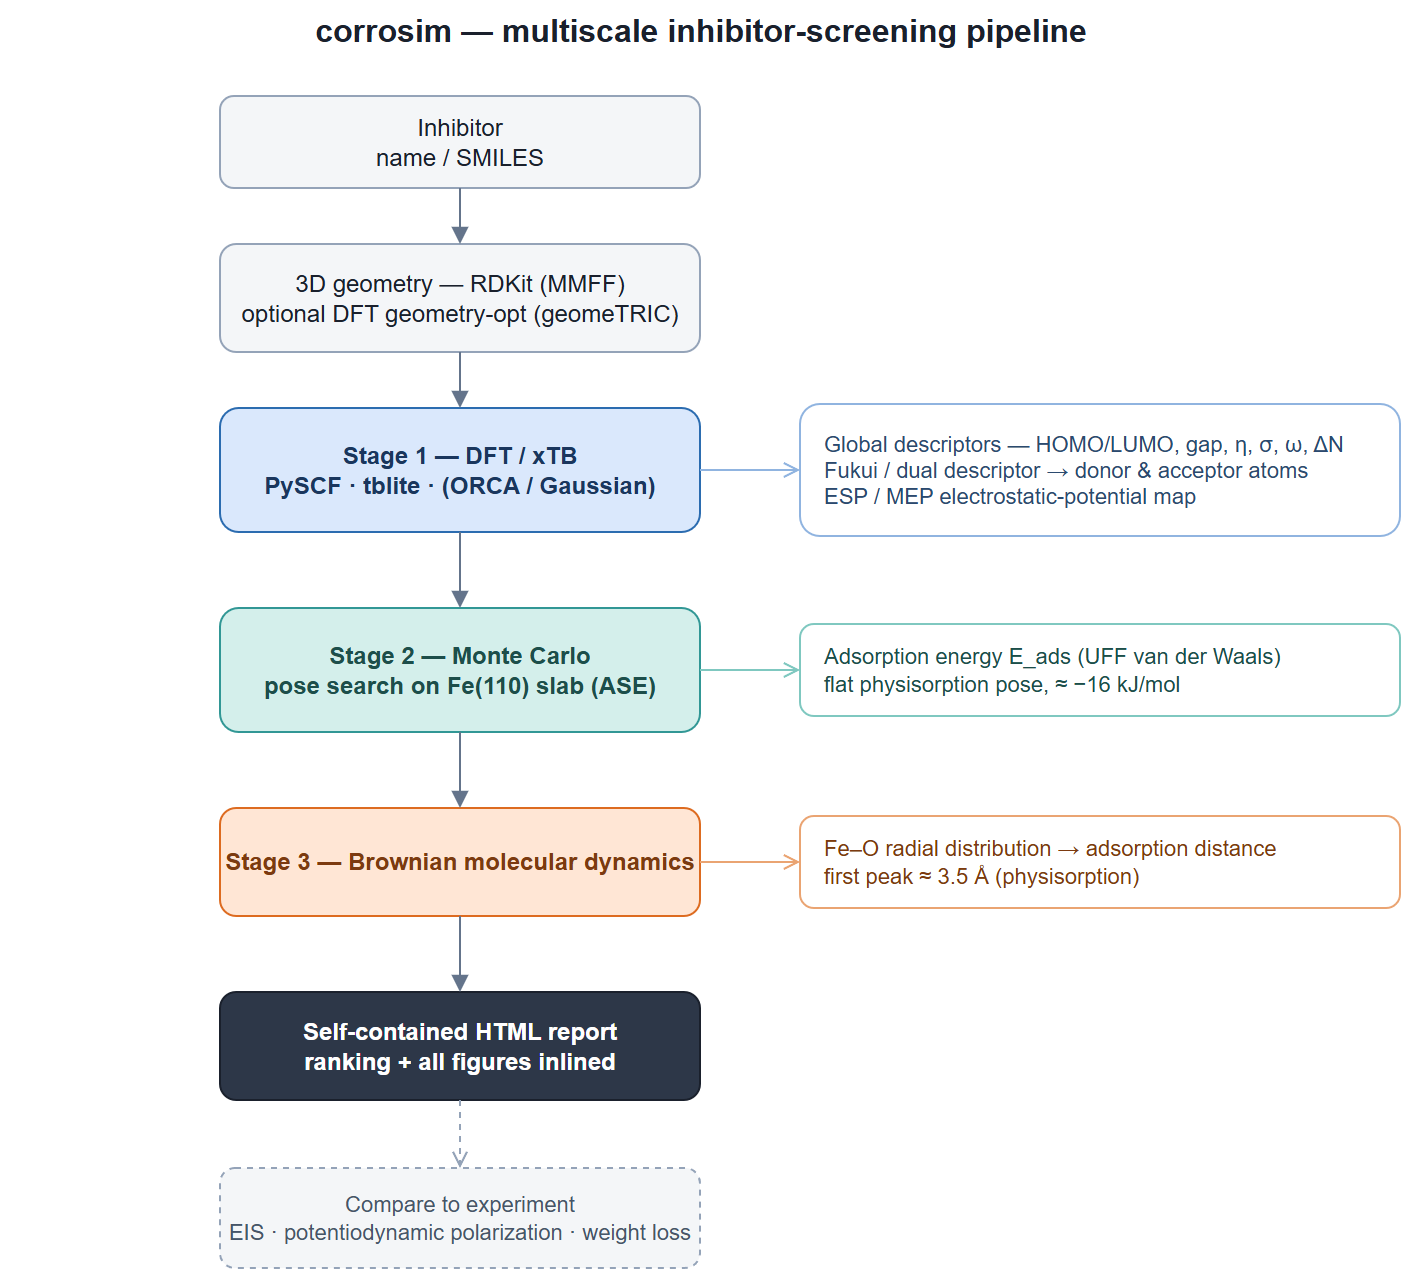
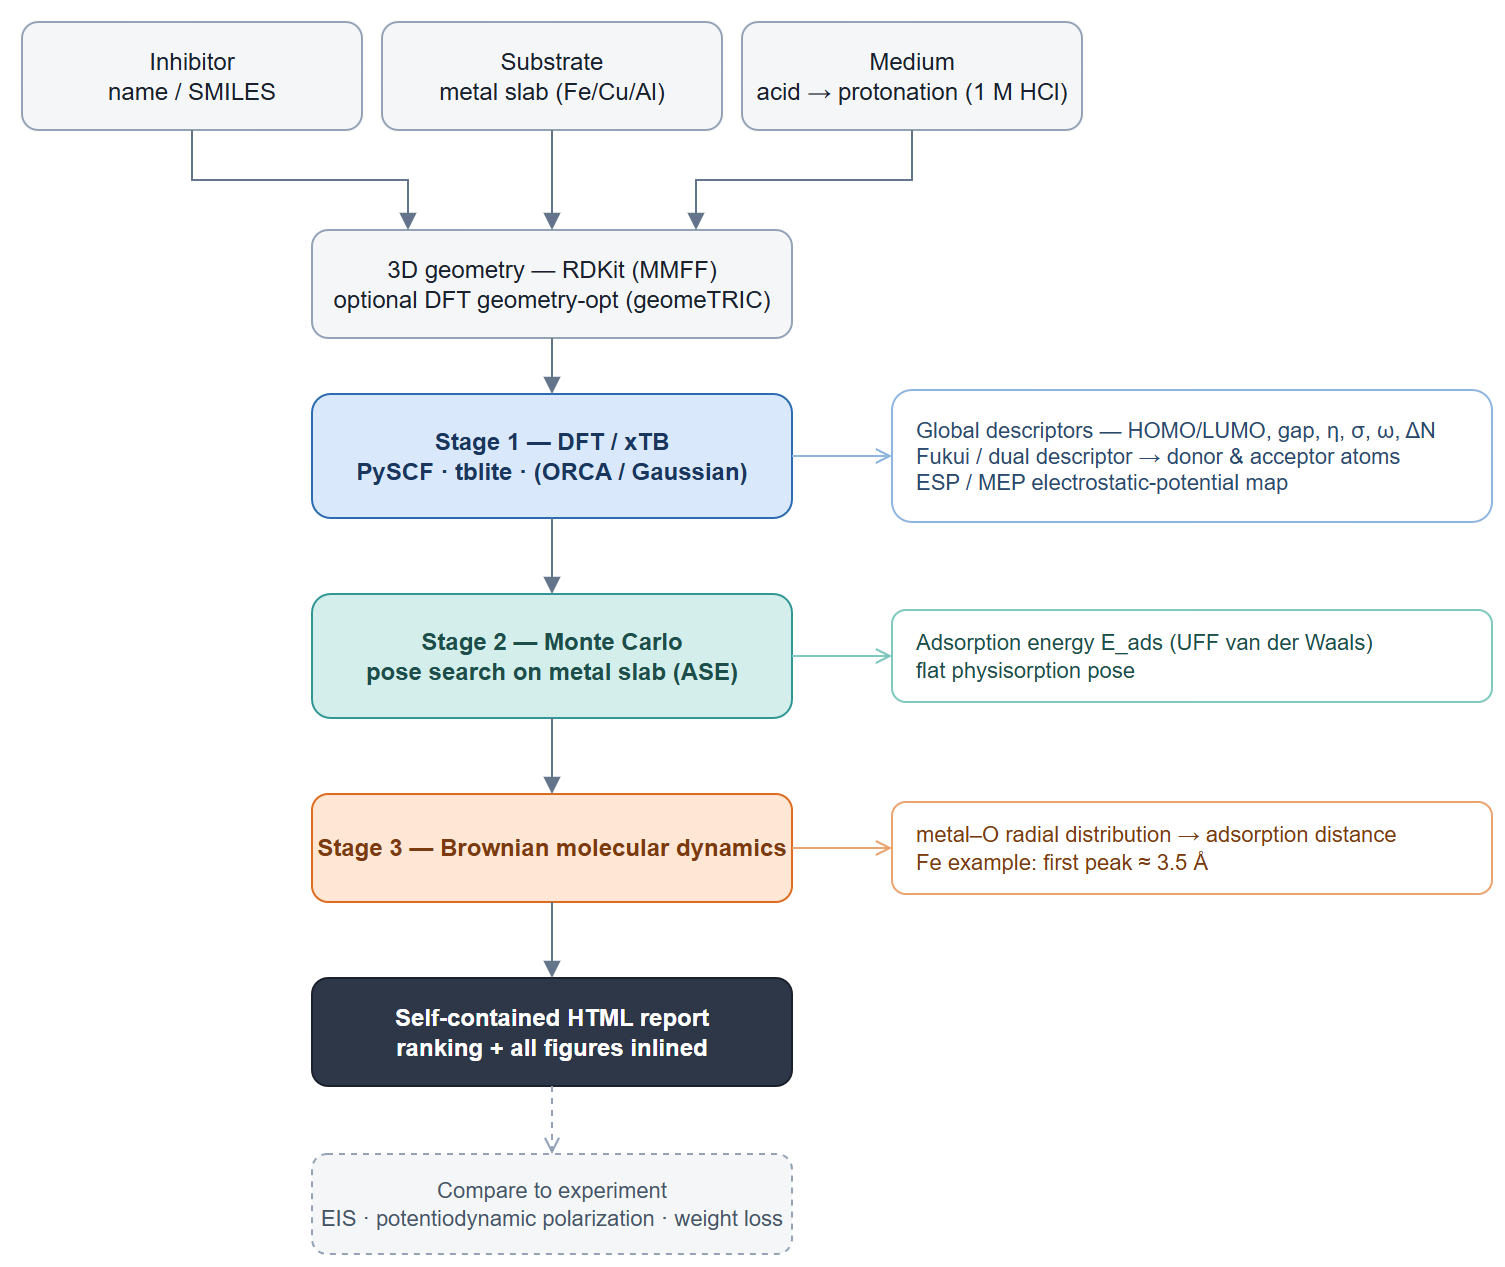
docs(pipeline): substrate-agnostic diagram + beginner-friendly guide
Remove the title, make Stage 2/3 metal-agnostic, and add the three pipeline inputs (inhibitor/substrate/medium) with separate entry points; regenerate fig0. Rewrite pipeline.md as a layered, plain-English guide while preserving the formulas, tables, and stage->module map.

diff --git a/docs/pipeline.md b/docs/pipeline.md
@@ -1,36 +1,92 @@
-# The simulation pipeline
+# How corrosim works — the simulation pipeline
 
-The scientific basis for `corrosim`. Across the green corrosion-inhibitor
-literature, the same **three-stage computational pipeline** recurs: study the
-inhibitor in isolation (quantum chemistry), dock it onto a metal surface inside a
-simulated acid solution (Monte Carlo), then relax it dynamically to measure how
-strongly it binds (molecular dynamics). All three aim to explain and rank
-*adsorption strength*, since inhibition efficiency is governed by how well a
-molecule adsorbs onto and shields the metal.
-
-![corrosim pipeline](../figures/fig0_pipeline.png)
-
-*Source: [`pipeline.drawio`](pipeline.drawio). How each stage maps to the code is
-summarised at the bottom.*
+*A plain-English guide to what this tool actually does, and the science behind
+it. No computational-chemistry background needed — the technical detail is
+layered in for those who want it, but you can follow the story without it.*
 
 ---
 
-## Stage 1 — DFT / quantum-chemical descriptors (single molecule)
+## The problem, in one paragraph
 
-Computes the *electronic reactivity* of the inhibitor: where it donates/accepts
-electrons and how strongly it should bind. In the literature this is done with
-**Gaussian** (B3LYP, 6-311++G(d,p), PCM/IEFPCM water) or **DMol³** (GGA-PBE/M-11L,
-DNP, COSMO). Procedure: geometry optimization → frequency check (true minimum) →
-extract descriptors, in gas and aqueous phase.
+Metals corrode. Iron rusts, and in an acid — like the hydrochloric acid (HCl)
+used industrially to clean steel — it dissolves alarmingly fast. A cheap,
+practical defence is a **corrosion inhibitor**: a small amount of a molecule
+added to the liquid that sticks to the metal surface and forms a thin protective
+film, like a microscopic raincoat that keeps the corrosive acid off the metal.
+**Green** inhibitors are ones drawn from plants instead of toxic synthetic
+chemicals. The catch: there are thousands of candidate molecules, and testing
+each one in the lab is slow and costly. **corrosim screens them on a computer
+first**, so only the most promising candidates go to the bench.
 
-**`corrosim` implements this** with four interchangeable engines behind one
-interface: `xtb` (GFN2, fast screening), `pyscf` (open DFT, e.g. B3LYP +
-ddCOSMO), and `orca` / `gaussian` wrappers (write input → run the local binary →
-parse HOMO/LUMO).
+## What goes in, what comes out
 
-### Global reactivity descriptors
+You give corrosim three things (the three boxes at the top of the diagram):
 
-From the frontier-orbital energies E_HOMO and E_LUMO (Koopmans' theorem):
+- **an inhibitor** — the candidate molecule, given by name (e.g. `quercetin`) or
+  as a *SMILES* string (a short text code for a chemical structure);
+- **a substrate** — the metal you want to protect (mild steel / iron, copper, or
+  aluminium);
+- **a medium** — the corrosive liquid, e.g. 1 M HCl. This matters because in acid
+  the molecule grabs an extra H⁺ and becomes positively charged, which changes
+  how it behaves — so corrosim models that charged form too.
+
+Out the other end comes a **ranking** of the candidates and a self-contained
+HTML report: every number, chart, and 3D picture bundled into one shareable file.
+
+![corrosim pipeline](../figures/fig0_pipeline.png)
+
+*Source: [`pipeline.drawio`](pipeline.drawio). The bottom of this page maps each
+stage to the code.*
+
+## The big idea: three stages, zooming in
+
+Across the scientific literature on green inhibitors, the same three-step recipe
+keeps appearing — and corrosim follows it. Each step asks a different question,
+zooming from the lone molecule to the molecule sitting on metal:
+
+1. **Stage 1 — what kind of molecule is this?** Study it on its own.
+2. **Stage 2 — how does it like to sit on the metal?** Try many poses, keep the best.
+3. **Stage 3 — how tightly does it hold on?** Let it jiggle at room temperature and measure.
+
+All three are really chasing one thing: **how strongly the molecule sticks to the
+metal** (its *adsorption*). The better it sticks and shields the surface, the
+better it fights corrosion.
+
+---
+
+## Stage 1 — Get to know the molecule (quantum chemistry)
+
+**In plain terms.** Before worrying about the metal, we examine the inhibitor by
+itself and ask: *how willing is it to share its electrons?* Gripping a metal
+surface is largely about donating electrons into the metal, so an
+"electron-generous" molecule tends to be a better inhibitor. To find out, we solve
+the quantum-mechanical equations for the molecule's electrons — a method called
+**DFT** (density functional theory). Think of it as an X-ray of the molecule's
+electronic personality.
+
+The two most important numbers come from the molecule's *frontier orbitals*:
+
+- **HOMO** — the highest-energy electrons it holds, i.e. the ones it is most ready
+  to *give away*.
+- **LUMO** — its lowest empty slot, i.e. where it can *accept* electrons back.
+
+A high HOMO and a small **HOMO–LUMO gap** signal a reactive, electron-donating
+molecule that bonds readily to metal.
+
+**What corrosim does.** It offers four interchangeable engines behind one
+interface, so you can trade speed for accuracy: `xtb` (very fast, great for a
+first pass), `pyscf` (proper open-source DFT — the default for publication-grade
+numbers), and optional `orca` / `gaussian` wrappers if you have them. The
+literature typically uses commercial Gaussian (B3LYP, 6-311++G(d,p), implicit
+water) or DMol³; corrosim matches that level of theory with free tools.
+
+### The descriptors — the molecule's "scorecard"
+
+From E_HOMO and E_LUMO a standard set of reactivity numbers (the *global
+descriptors*) is derived. **You don't need the algebra** — the two to watch are
+the **gap** (smaller = more reactive) and **ΔN** (roughly, how many electrons the
+molecule tends to hand to the metal). The full set, for completeness (via
+Koopmans' theorem):
 
 ```
 Energy gap            ΔE   = E_LUMO − E_HOMO          (smaller → more reactive)
@@ -45,89 +101,100 @@ Electrons transferred ΔN   = (Φ_metal − χ) / [2 (η_metal + η)]
 Back-donation energy  ΔE_back = − η / 4
 ```
 
-The metal is described by its work function Φ (Fe ≈ 4.82, Cu ≈ 4.94, Al ≈ 4.26 eV)
-with η_metal ≈ 0. A high E_HOMO and a small gap indicate a strong electron-donor
-that bonds readily to the metal. Implemented in `corrosim/descriptors.py`.
+The metal enters through its **work function** Φ — essentially how tightly it
+holds its own electrons (Fe ≈ 4.82, Cu ≈ 4.94, Al ≈ 4.26 eV; we treat the metal's
+hardness η_metal ≈ 0). Implemented in `corrosim/descriptors.py`.
 
-### Local reactivity
+### Which atoms actually do the gripping?
 
-The literature also uses **Fukui functions** f⁺/f⁻, the **dual descriptor** Δf and
-**ESP** maps to pinpoint *which atoms* adsorb. **`corrosim` implements** the
-condensed Fukui / dual descriptor (`corrosim/fukui.py`, FMO or finite-difference
-over the N, N±1 systems) and the **ESP / MEP map** (PySCF `cubegen` density+MEP on
-a shared grid, rendered onto the density isosurface — `figures.render_esp`). For
-the flavonoids both agree: the catechol B-ring + 3-OH oxygens are the metal-binding
-donor sites. (NBO charges remain a possible future add.)
+The descriptors above describe the *whole* molecule; we also want to know *which
+individual atoms* latch onto the metal. Two tools answer that:
+
+- **Fukui functions / dual descriptor** — flag the most reactive atoms (the
+  electron donors and acceptors).
+- **ESP map** — a 3D "heat map" of charge across the molecule; the red, electron-
+  rich patches are the spots that love metal.
+
+For the Arghel flavonoids both agree: the oxygen atoms on the catechol ring and
+the 3-OH group are the metal-binding sites. Implemented in `corrosim/fukui.py`
+(condensed Fukui, by frozen-orbital or finite-difference) and
+`figures.render_esp` (PySCF `cubegen` density + electrostatic potential, painted
+onto the molecule's surface).
 
 ---
 
-## Stage 2 — Monte Carlo adsorption (best pose + energy)
+## Stage 2 — Find the comfiest fit on the metal (Monte Carlo)
 
-Searches for the lowest-energy way the inhibitor sits on the metal inside the
-acid. In the literature: **Materials Studio Adsorption Locator**, **COMPASS**
-force field, simulated annealing over a metal slab (**Fe(110)** steel, **Cu(111)**
-copper, **Al(111)** aluminium) with periodic boundaries and an explicit
-water + H₃O⁺ + Cl⁻ box mimicking HCl. Key output: the **adsorption energy E_ads**
-(more negative = stronger).
+**In plain terms.** Now we place the molecule on the metal surface and look for
+the *best way it can lie down* — the position and orientation where it sits most
+comfortably (lowest energy). There are countless possible poses, so we can't
+check them all. Instead we use a **Monte Carlo** search: randomly nudge and rotate
+the molecule thousands of times, generally keeping changes that lower the energy
+but occasionally accepting a worse one so we don't get stuck in a so-so spot. This
+trick is called *simulated annealing* — like gently shaking a jar so the contents
+settle into their tightest packing. We keep the best pose found and its
+**adsorption energy** E_ads (the more negative, the stronger the grip).
 
-**`corrosim` implements** the slab construction and molecule placement
-(`corrosim/adsorption.py`, via ASE) plus a **Monte Carlo pose search**
-(`corrosim/mc.py`: random rotate/translate + Metropolis simulated annealing) over a
-rigid-body **UFF van-der-Waals** energy. For the flavonoids it finds flat
-physisorption poses on Fe(110) at **E_ads ≈ −16 kJ/mol** — at the lower edge of the
-published black-tea periodic-DFT band (−20 to −35), as expected for a vdW-only
-model. Quantitative chemisorption E_ads is the LAMMPS/periodic-DFT hand-off.
+**What corrosim does.** It builds a realistic metal surface (a periodic "slab")
+with ASE and runs the Monte Carlo pose search (`corrosim/adsorption.py` +
+`corrosim/mc.py`) over a van-der-Waals stickiness model (UFF). For the flavonoids
+on steel it finds them lying **flat** against the surface at **E_ads ≈ −16
+kJ/mol** — modest, weak "physical" sticking (*physisorption*), consistent with
+published results for similar plant inhibitors. The literature does this step with
+Materials Studio's Adsorption Locator; corrosim's open-source pose search plays the
+same role.
 
-> A finite metal-cluster + GFN2-xTB shortcut for E_ads was evaluated and
-> **rejected** — bare clusters give unphysical (tens-of-eV) energies. See
+> A tempting shortcut — a tiny metal *cluster* scored with the fast `xtb` engine —
+> was tried and **rejected**: bare clusters give wildly unphysical energies. See
 > [ADR 0001](adr/0001-reject-cluster-xtb-adsorption-energy.md).
 
 ---
 
-## Stage 3 — Molecular dynamics (equilibrium binding, film stability)
+## Stage 3 — Let it settle and measure the grip (molecular dynamics)
 
-Lets the system evolve in time for a realistic interaction energy and the
-adsorption geometry. Literature route: **Forcite** (COMPASS, NVT, 298 K,
-300–500 ps, 1 fs) or first-principles MD (**Quantum ESPRESSO**, PBE + DFT-D2).
-Outputs:
+**In plain terms.** A single best pose is just a snapshot; real molecules wiggle.
+In **molecular dynamics (MD)** we let the molecule move around over the surface at
+room temperature (298 K) and watch how it actually settles over time. The headline
+result is the **adsorption distance**: how far the molecule's oxygen atoms
+typically sit from the metal. We read it off a **radial distribution function
+(RDF)** — basically a histogram of "how common is each distance," whose first peak
+marks the typical binding distance. Closer than ~3.5 Å hints at a strong chemical
+bond (*chemisorption*); farther means weaker physical sticking (*physisorption*).
 
-```
-Interaction energy   E_interaction = E_total − (E_surface+solution + E_inhibitor)
-Binding energy       E_binding     = − E_interaction
-Radial distribution function (RDF) → adsorption distance; <3.5 Å ⇒ chemisorption
-```
+**What corrosim does.** It runs a light **Brownian molecular dynamics**
+(`corrosim/md.py`) under the same van-der-Waals field and reads the **metal–O
+RDF** (Fe–O for our steel case study). For the flavonoids the first peak sits at
+≈ 3.5 Å — the physisorption range, agreeing with Stage 2.
 
-**`corrosim` implements** a light **Brownian rigid-body MD** (`corrosim/md.py`):
-the molecule diffuses over the surface under the same UFF van-der-Waals field, and
-the **Fe–O radial distribution function** gives the adsorption distance — first
-peak ≈ **3.5 Å** for the flavonoids, in the > 3.5 Å physisorption range (consistent
-with the MC result). For a *quantitative, chemisorption-capable* E_ads it still
-provides a **LAMMPS hand-off** (`LAMMPS_HANDOFF_NOTE`): assign force fields
-(GAFF/OPLS for the organic, EAM for the metal), solvate, run NVT, compute E_ads and
-the RDF — the heavy, compute-bound step that stays outside the package. Stay on the
-**classical** path; first-principles MD is far more expensive.
+For a *quantitative, bond-capable* adsorption energy, corrosim hands off to
+**LAMMPS** (the step-by-step recipe is in `LAMMPS_HANDOFF_NOTE`): assign force
+fields (GAFF/OPLS for the organic molecule, EAM for the metal), add explicit
+water, run the simulation, and compute E_ads and the RDF. That's the heavy,
+compute-hungry job deliberately left *outside* the package — stay on this
+classical path; full first-principles MD is far more expensive.
 
 ---
 
-## Open-source toolchain
+## Everything here is free software
 
-The reference papers use Gaussian and BIOVIA Materials Studio (both commercial).
-`corrosim` is built entirely on free software so the pipeline costs **$0 in
-licenses**:
+The reference papers lean on Gaussian and BIOVIA Materials Studio — both
+expensive commercial packages. corrosim reproduces the whole pipeline with free,
+open-source tools, so it costs **$0 in licences**:
 
 | Reference (commercial) | Free equivalent used here |
 |---|---|
 | Gaussian / DMol³ (DFT) | PySCF, xTB (ORCA optional, free for academia) |
 | DMol³ geometry-opt | PySCF + geomeTRIC (`run_dft --optimize`) |
 | Adsorption Locator (MC) | ASE slab + UFF Monte Carlo pose search (`corrosim/mc.py`) |
-| Forcite (MD) | Brownian rigid-body MD → Fe–O RDF (`corrosim/md.py`); LAMMPS hand-off for quantitative E_ads |
+| Forcite (MD) | Brownian rigid-body MD → metal–O RDF (`corrosim/md.py`); LAMMPS hand-off for quantitative E_ads |
 | Multiwfn (Fukui / ESP) | `corrosim/fukui.py` (condensed Fukui) + PySCF cubegen ESP/MEP map |
 
-Spend any compute budget on the Stage-3 classical MD, not on software.
+The takeaway: spend any compute budget on the Stage-3 simulation, not on software
+licences.
 
 ---
 
-## Stage → module map
+## Where each stage lives in the code
 
 | Stage | Module | Entry points |
 |---|---|---|
@@ -142,10 +209,14 @@ Spend any compute budget on the Stage-3 classical MD, not on software.
 | Drivers | `corrosim/runs/*` | `run_dft`, `run_fukui`, `run_mc`, `run_md`, `make_cubes`, `make_figures`, `make_report`, `compare_geometry` |
 | Orchestration | `corrosim/__init__.py`, `cli.py` | `screen`, `analyse_one` |
 
-## Important caveats
+---
 
-- Simulations **screen and explain**; they do not prove inhibition efficiency.
-  Validate against electrochemistry (EIS, potentiodynamic polarization, weight loss).
-- For plant extracts (e.g. Arghel / *Solenostemma argel*), the whole mixture is not
-  simulated — the **major identified constituents** are (here, the flavonoids
-  kaempferol, quercetin, isorhamnetin). Confirm a specific extract with LC-MS/GC-MS.
+## What this does — and doesn't — tell you
+
+- Simulations **screen and explain**; they do not *prove* that a molecule works.
+  Always confirm the promising candidates with real electrochemistry — EIS,
+  potentiodynamic polarization, and weight-loss tests.
+- For a plant extract like Arghel (*Solenostemma argel*), we don't simulate the
+  whole mixture — only its **major known ingredients** (here the flavonoids
+  kaempferol, quercetin, isorhamnetin). What is actually in a given batch should
+  be confirmed by LC-MS/GC-MS.